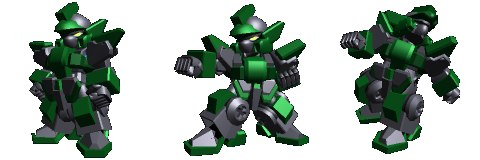
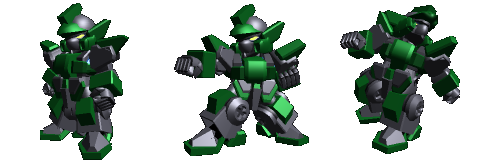
ガーディアスの画像を修正した

Changed region(s): [[0.0625, 0.0, 0.2812, 1.0]]

diff --git a/dbShell/createDB.js b/dbShell/createDB.js
@@ -113,7 +113,7 @@ db.armdozers.insert({
     armdozerId : 'guardias',
     name : 'ガーディアス',
     pictName : 'Guardias.png',
-    hp : 1400,
+    hp : 2100,
     defense : 700,
     speed : 100,
     weapons : {
